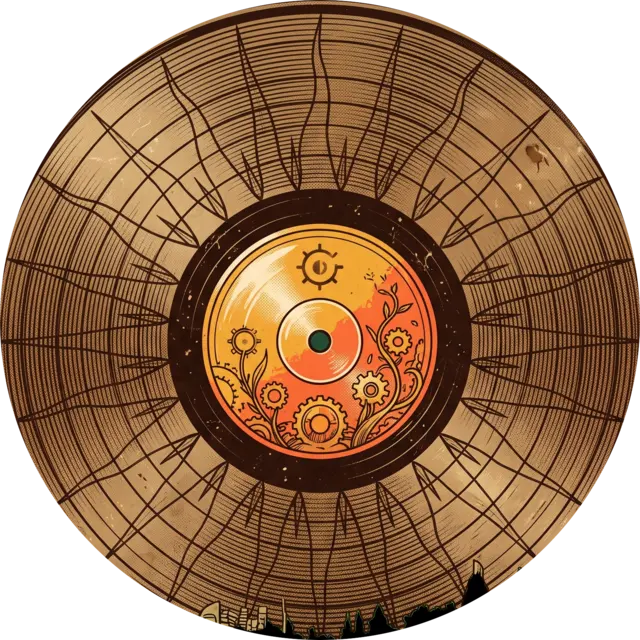
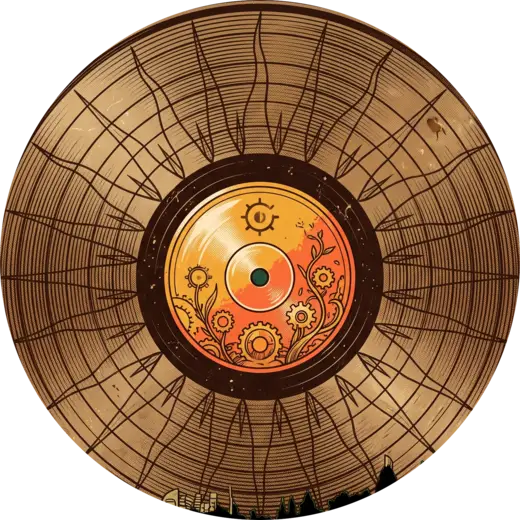
Halve the hero record to claw back the LCP the art cost
Adding real art moved production mobile LCP from 1.8-2.0s to 2.4-2.9s,
straddling the briefs 2.5s bar. The LCP element is the .hero-sub text,
not the image, so I first suspected my own preload was starving the
fonts - A/B says no, 3.2s vs 3.3s is noise. The cost is simply the
records bytes landing in the critical window.

So the record drops from 640px/q74 (144KB) to 520px/q66 (60KB). It
renders at most 580px wide and sits behind type and a scrim, so the
detail was not buying anything. Total page weight 676 -> 495 KiB.

The preload stays: it is still the largest above-the-fold image, and it
measures neutral rather than harmful.

diff --git a/src/AllAboardEarthPrototype.jsx b/src/AllAboardEarthPrototype.jsx
@@ -274,8 +274,8 @@ function VinylSun() {
         className="vinyl-disc"
         src="/art/vinyl-sun.webp"
         alt=""
-        width="640"
-        height="640"
+        width="520"
+        height="520"
         fetchPriority="high"
         decoding="async"
       />
